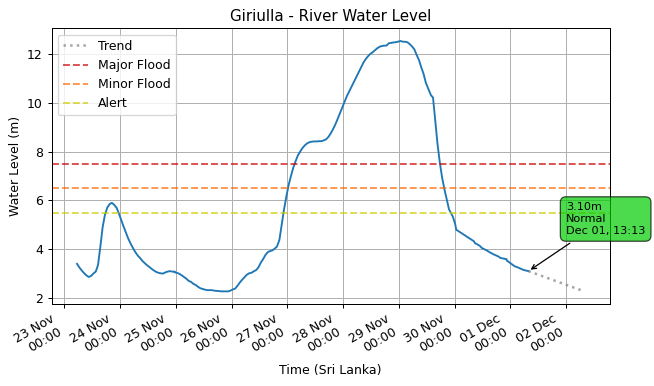
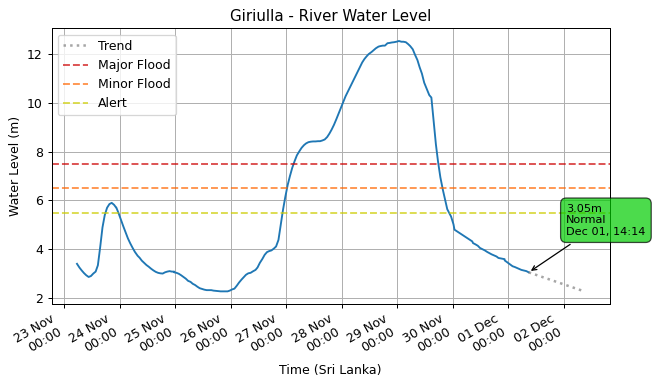
🤖 [update_latest.yml] 2025-12-01-0854

diff --git a/README.md b/README.md
@@ -1,11 +1,11 @@
 # lk_irrigation 🇱🇰
 
 ![Status: Live](https://img.shields.io/badge/status-live-brightgreen)
-![LastUpdated](https://img.shields.io/badge/last_updated-2025--12--01_14:09:43-green)
+![LastUpdated](https://img.shields.io/badge/last_updated-2025--12--01_14:20:36-green)
 
 Realtime Data about *River Water Levels* in Sri Lanka, from the [Irrigation Deptartment](https://www.irrigation.gov.lk)'s [Hydrology and Disaster Management](https://www.irrigation.gov.lk/web/index.php?option=com_content&view=article&id=27&Itemid=128&lang=en) Division.
 
-- [Complete Dataset](data/rwlds) with **6,688 measurements** from **39** stations.
+- [Complete Dataset](data/rwlds) with **6,693 measurements** from **39** stations.
 - [Scrape and load logic](src/lk_irrigation/rwld/RiverWaterLevelDataLoadMixin.py)
 - [Original Data source](https://www.arcgis.com/apps/dashboards/2cffe83c9ff5497d97375498bdf3ff38)
 
@@ -15,10 +15,15 @@ Realtime Data about *River Water Levels* in Sri Lanka, from the [Irrigation Dept
 
 ## Latest measurements
 
-*There were **34** measurements in the last **1 hour**.*
+*There were **35** measurements in the last **1 hour**.*
 
 | Measured At | Station (River Basin) | Level (m) | Alert Level | Rate-of-Rise (m/hr) | Rising Alert |
 | --- | --- | ---: | --- | ---: | --- |
+| 2025-12-01 14:20:36 | Urawa (Nilwala Ganga) | 0.70 | 🟢 Normal | -0.005 |  |
+| 2025-12-01 14:16:22 | Nawalapitiya (Mahaweli Ganga) | 1.87 | 🟢 Normal | 0.000 |  |
+| 2025-12-01 14:16:18 | Thanamalwila (Kirindi Oya) | 1.84 | 🟢 Normal | 0.276 | 🔺 Rising |
+| 2025-12-01 14:14:28 | Giriulla (Maha Oya) | 3.05 | 🟢 Normal | -0.049 |  |
+| 2025-12-01 14:12:34 | Rathnapura (Kalu Ganga) | 5.30 | 🟡 Alert | -0.057 |  |
 | 2025-12-01 14:09:43 | Holombuwa (Kelani Ganga) | 1.45 | 🟢 Normal | -0.021 |  |
 | 2025-12-01 14:09:10 | Thalgahagoda (Nilwala Ganga) | 0.87 | 🟢 Normal | 0.000 |  |
 | 2025-12-01 14:08:27 | Pitabeddara (Nilwala Ganga) | 1.01 | 🟢 Normal | 0.000 |  |
@@ -49,10 +54,6 @@ Realtime Data about *River Water Levels* in Sri Lanka, from the [Irrigation Dept
 | 2025-12-01 14:01:38 | Siyambalanduwa (Heda Oya) | 1.18 | 🟢 Normal | -0.010 |  |
 | 2025-12-01 14:00:49 | Thanthirimale (Malwathu Oya) | 9.54 | 🔴 Major Flood | -0.123 |  |
 | 2025-12-01 14:00:10 | Nakkala (Kumbukkan Oya) | 1.64 | 🟢 Normal | -0.010 |  |
-| 2025-12-01 13:20:43 | Panadugama (Nilwala Ganga) | 3.33 | 🟢 Normal | -0.013 |  |
-| 2025-12-01 13:14:07 | Galgamuwa (Mee Oya) | 3.99 | 🟢 Normal | -0.172 |  |
-| 2025-12-01 13:13:51 | Giriulla (Maha Oya) | 3.10 | 🟢 Normal | -0.023 |  |
-| 2025-12-01 13:13:19 | Holombuwa (Kelani Ganga) | 1.47 | 🟢 Normal | -0.021 |  |
 
 ## Latest by Station
 
@@ -71,34 +72,34 @@ Realtime Data about *River Water Levels* in Sri Lanka, from the [Irrigation Dept
 | 2025-12-01 14:02:45 | Kalawellawa (Millakanda) (Kalu Ganga) | 7.12 | 🟠 Minor Flood | -0.040 |  |
 | 2025-12-01 14:07:48 | Hanwella (Kelani Ganga) | 8.94 | 🟠 Minor Flood | -0.084 |  |
 | 2025-12-01 14:02:41 | Dunamale (Aththanagalu Oya) | 3.87 | 🟡 Alert | -0.050 |  |
-| 2025-12-01 13:09:10 | Rathnapura (Kalu Ganga) | 5.36 | 🟡 Alert | -0.068 |  |
+| 2025-12-01 14:12:34 | Rathnapura (Kalu Ganga) | 5.30 | 🟡 Alert | -0.057 |  |
 | 2025-12-01 14:02:12 | Horowpothana (Yan Oya) | 6.86 | 🟡 Alert | -0.124 |  |
 | 2025-12-01 14:02:53 | Moraketiya (Walawe Ganga) | 1.89 | 🟢 Normal | 0.649 | 🔺 Rising |
+| 2025-12-01 14:16:18 | Thanamalwila (Kirindi Oya) | 1.84 | 🟢 Normal | 0.276 | 🔺 Rising |
 | 2025-12-01 14:03:27 | Kithulgala (Kelani Ganga) | 2.25 | 🟢 Normal | 0.207 | 🔺 Rising |
 | 2025-12-01 14:06:34 | Thawalama (Gin Ganga) | 1.98 | 🟢 Normal | 0.105 | 🔺 Rising |
+| 2025-12-01 14:16:22 | Nawalapitiya (Mahaweli Ganga) | 1.87 | 🟢 Normal | 0.000 |  |
 | 2025-12-01 14:02:22 | Yaka Wewa (Ma Oya) | 1.15 | 🟢 Normal | 0.000 |  |
 | 2025-12-01 14:08:27 | Pitabeddara (Nilwala Ganga) | 1.01 | 🟢 Normal | 0.000 |  |
 | 2025-12-01 14:02:18 | Norwood (Kelani Ganga) | 1.24 | 🟢 Normal | 0.000 |  |
 | 2025-12-01 14:03:47 | Padiyathalawa (Maduru Oya) | 1.03 | 🟢 Normal | 0.000 |  |
 | 2025-12-01 14:02:36 | Katharagama (Menik Ganga) | 0.91 | 🟢 Normal | 0.000 |  |
-| 2025-12-01 12:12:03 | Urawa (Nilwala Ganga) | 0.71 | 🟢 Normal | 0.000 |  |
 | 2025-12-01 14:09:10 | Thalgahagoda (Nilwala Ganga) | 0.87 | 🟢 Normal | 0.000 |  |
 | 2025-12-01 14:02:21 | Kuda Oya (Kirindi Oya) | 1.88 | 🟢 Normal | 0.000 |  |
+| 2025-12-01 14:20:36 | Urawa (Nilwala Ganga) | 0.70 | 🟢 Normal | -0.005 |  |
 | 2025-12-01 14:01:38 | Siyambalanduwa (Heda Oya) | 1.18 | 🟢 Normal | -0.010 |  |
 | 2025-12-01 14:02:32 | Wellawaya (Kirindi Oya) | 1.24 | 🟢 Normal | -0.010 |  |
 | 2025-12-01 14:07:33 | Magura (Kalu Ganga) | 2.12 | 🟢 Normal | -0.010 |  |
-| 2025-12-01 13:00:17 | Thanamalwila (Kirindi Oya) | 1.49 | 🟢 Normal | -0.010 |  |
 | 2025-12-01 14:00:10 | Nakkala (Kumbukkan Oya) | 1.64 | 🟢 Normal | -0.010 |  |
 | 2025-12-01 14:07:00 | Panadugama (Nilwala Ganga) | 3.32 | 🟢 Normal | -0.013 |  |
 | 2025-12-01 14:05:32 | Baddegama (Gin Ganga) | 2.01 | 🟢 Normal | -0.019 |  |
 | 2025-12-01 14:09:43 | Holombuwa (Kelani Ganga) | 1.45 | 🟢 Normal | -0.021 |  |
-| 2025-12-01 13:13:51 | Giriulla (Maha Oya) | 3.10 | 🟢 Normal | -0.023 |  |
 | 2025-12-01 14:06:39 | Badalgama (Maha Oya) | 4.00 | 🟢 Normal | -0.031 |  |
 | 2025-12-01 14:03:19 | Deraniyagala (Kelani Ganga) | 1.26 | 🟢 Normal | -0.049 |  |
+| 2025-12-01 14:14:28 | Giriulla (Maha Oya) | 3.05 | 🟢 Normal | -0.049 |  |
 | 2025-12-01 14:02:59 | Glencourse (Kelani Ganga) | 12.58 | 🟢 Normal | -0.071 |  |
 | 2025-12-01 14:07:27 | Manampitiya (Mahaweli Ganga) | 2.81 | 🟢 Normal | -0.135 |  |
 | 2025-12-01 14:06:26 | Galgamuwa (Mee Oya) | 3.84 | 🟢 Normal | -0.172 |  |
-| 2025-12-01 13:02:02 | Nawalapitiya (Mahaweli Ganga) | 1.87 | 🟢 Normal | -108.000 |  |
 
 ## River Water Level Charts by Station
 
@@ -158,6 +159,10 @@ Realtime Data about *River Water Levels* in Sri Lanka, from the [Irrigation Dept
 
 ![Moraketiya](images/stations/moraketiya.png)
 
+### Thanamalwila (Kirindi Oya)
+
+![Thanamalwila](images/stations/thanamalwila.png)
+
 ### Kithulgala (Kelani Ganga)
 
 ![Kithulgala](images/stations/kithulgala.png)
@@ -165,6 +170,10 @@ Realtime Data about *River Water Levels* in Sri Lanka, from the [Irrigation Dept
 ### Thawalama (Gin Ganga)
 
 ![Thawalama](images/stations/thawalama.png)
+
+### Nawalapitiya (Mahaweli Ganga)
+
+![Nawalapitiya](images/stations/nawalapitiya.png)
 
 ### Yaka Wewa (Ma Oya)
 
@@ -186,10 +195,6 @@ Realtime Data about *River Water Levels* in Sri Lanka, from the [Irrigation Dept
 
 ![Katharagama](images/stations/katharagama.png)
 
-### Urawa (Nilwala Ganga)
-
-![Urawa](images/stations/urawa.png)
-
 ### Thalgahagoda (Nilwala Ganga)
 
 ![Thalgahagoda](images/stations/thalgahagoda.png)
@@ -197,6 +202,10 @@ Realtime Data about *River Water Levels* in Sri Lanka, from the [Irrigation Dept
 ### Kuda Oya (Kirindi Oya)
 
 ![Kuda Oya](images/stations/kuda-oya.png)
+
+### Urawa (Nilwala Ganga)
+
+![Urawa](images/stations/urawa.png)
 
 ### Siyambalanduwa (Heda Oya)
 
@@ -209,10 +218,6 @@ Realtime Data about *River Water Levels* in Sri Lanka, from the [Irrigation Dept
 ### Magura (Kalu Ganga)
 
 ![Magura](images/stations/magura.png)
-
-### Thanamalwila (Kirindi Oya)
-
-![Thanamalwila](images/stations/thanamalwila.png)
 
 ### Nakkala (Kumbukkan Oya)
 
@@ -230,10 +235,6 @@ Realtime Data about *River Water Levels* in Sri Lanka, from the [Irrigation Dept
 
 ![Holombuwa](images/stations/holombuwa.png)
 
-### Giriulla (Maha Oya)
-
-![Giriulla](images/stations/giriulla.png)
-
 ### Badalgama (Maha Oya)
 
 ![Badalgama](images/stations/badalgama.png)
@@ -241,6 +242,10 @@ Realtime Data about *River Water Levels* in Sri Lanka, from the [Irrigation Dept
 ### Deraniyagala (Kelani Ganga)
 
 ![Deraniyagala](images/stations/deraniyagala.png)
+
+### Giriulla (Maha Oya)
+
+![Giriulla](images/stations/giriulla.png)
 
 ### Glencourse (Kelani Ganga)
 
@@ -253,10 +258,6 @@ Realtime Data about *River Water Levels* in Sri Lanka, from the [Irrigation Dept
 ### Galgamuwa (Mee Oya)
 
 ![Galgamuwa](images/stations/galgamuwa.png)
-
-### Nawalapitiya (Mahaweli Ganga)
-
-![Nawalapitiya](images/stations/nawalapitiya.png)
 
 ![Maintainer](https://img.shields.io/badge/maintainer-nuuuwan-red)
 ![MadeWith](https://img.shields.io/badge/made_with-python-blue)
